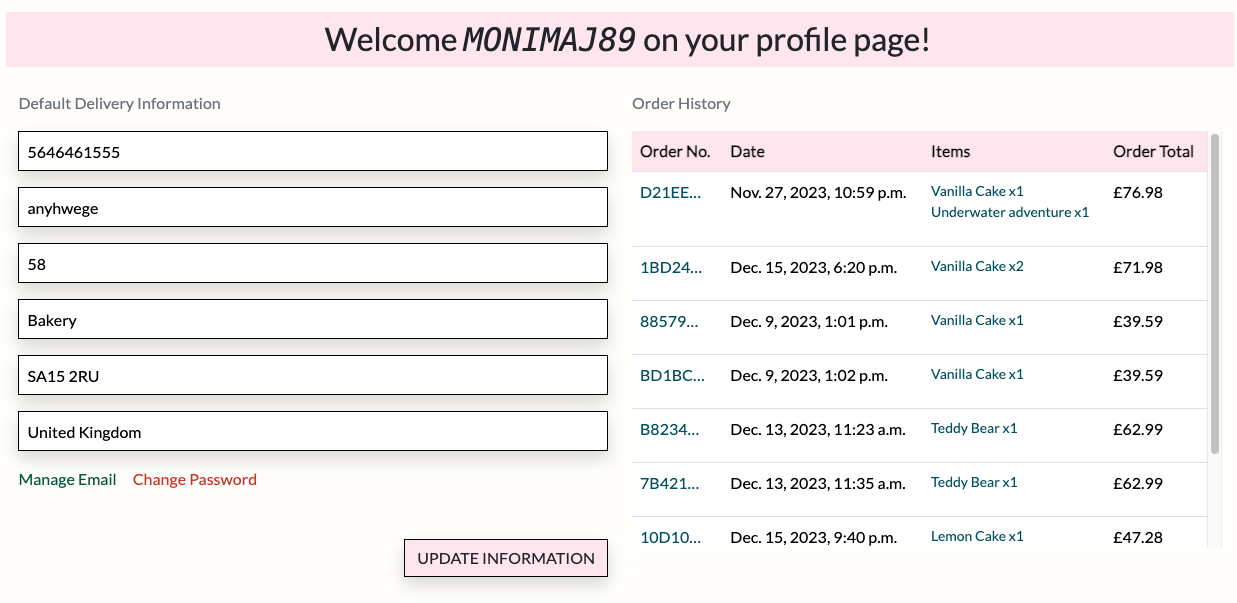
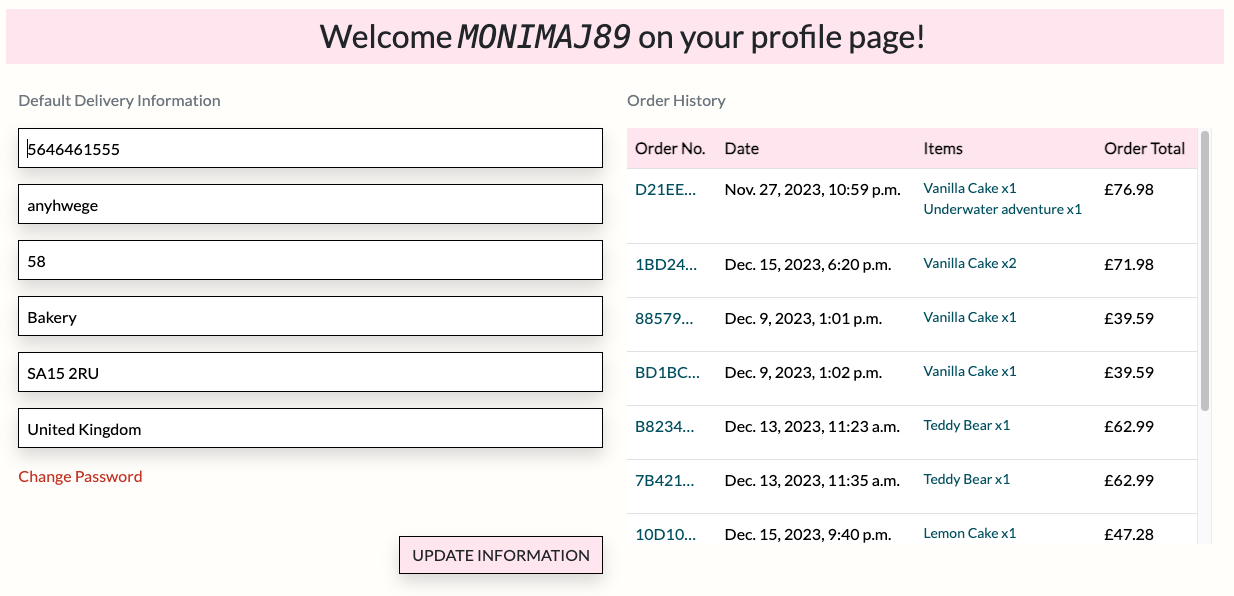
Delete manage email function

diff --git a/README.md b/README.md
@@ -3,7 +3,7 @@
 
 ![Website mock-up](media/docs/mockup.png)
 
-Cake heaven is an e-commerce website project created for a imaginary bake shop in UK. The main goal of this project was to create the most user-friendly website possible, where you can shop for cakes in an easy and intuitive way. 
+Cake Heaven is an e-commerce website project created for a imaginary bake shop in UK. The main goal of this project was to create the most user-friendly website possible, where you can shop for cakes in an easy and intuitive way. 
 The user can browse products, add them to the cart, and make a payment. The user can make a purchase as a registered user or as a guest. Registered users also have the option to view their order history and leave reviews about products.
 
 Project was created using Python, Django, HTML5, CSS3, and JavaScript. The data was stored in a PostgreSQL database using ElephantSql for manipulation. Cake Heaven is my fourth and last milestone project for Code Institute's Level 5 Diploma in Web Application Development.
@@ -53,7 +53,7 @@ Project was created using Python, Django, HTML5, CSS3, and JavaScript. The data 
 * Be able to leave the reviews for purchased products
 * See my order history 
 * Be able to update and save my personal info
-* Manage my email or change the password
+* Be able to change my password
 * Make purchase with my delivery info always filled
 
 3. As an admin I want to:
@@ -289,7 +289,6 @@ Any logged in user has access to his profile page which contains:
 
   * Personal info details - phone number and address which can be updated
   * Order history with order number which directs to order summary page and product link which leads to product detail page
-  * Manage Email link - user can manage his email address
   * Change Password link - user can change his password
 
 ![Profil Page](media/docs/profile.png)
@@ -318,7 +317,6 @@ Main templates provided by AllAuth:
   * Sign In - For already registered users, accessible from an account navbar, contains a 'register' link for new users. User can sign in using Username or email, and tick the box to remember him. Page also contains a "Forgot password" link if user can not log in
   * Sign Out - Accessible from an account navbar, redirects to page where user can confirm if ready to log out. After signing out the bag contect is removed from the session.
   * Forgot password - Available for already registered user on 'sign in' page, required an email address existing in database. Send an email with password reset link, where user is able to reset his password and login again.
-  * Manage email - Accessible on the user's profile page under the personal detail form, leads to page where user can manage his email address
   * Change password - Accessible on the user's profile page under the personal detail form, leads to page where user can change his own password
 
 ## Error Page 
